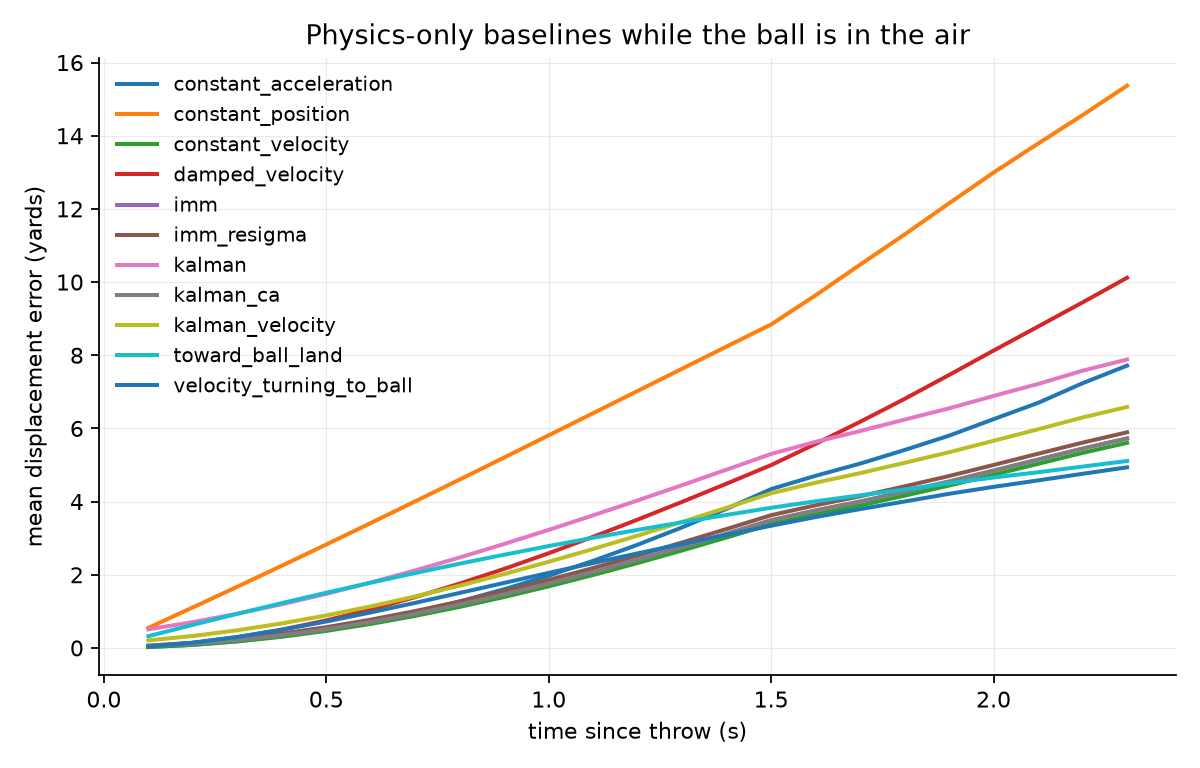
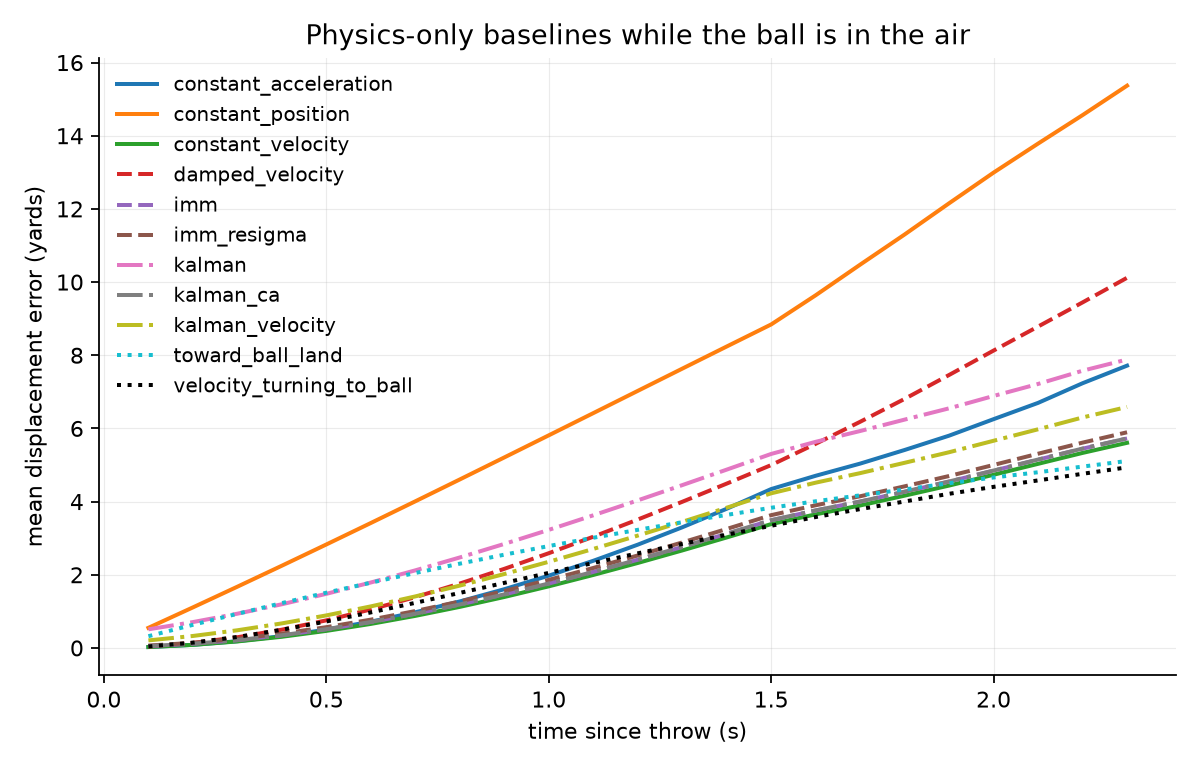
Fix error_curves.png colour collision; disclose/correct per-role claims
evaluate.py: extend plot_error_curves to an explicit 11-way (color,
linestyle) map (CURVE_STYLE) instead of relying on matplotlib's 10-color
default cycle, which silently repeated and rendered constant_acceleration
and velocity_turning_to_ball in identical blue. Regenerated
outputs/error_curves.png and removed the prior caption disclosure of that
collision now that it's fixed rather than documented.

PART1_DETAIL.md: disclose that the by-role table is week-1-only (same
scope as the results table above it), with the full-18-week comparison
as evidence of robustness: every value moves <0.3 yd and the ordering
is unchanged.

CONTEXT.md: correct a miscount in the role-inversion note --
constant_position inverts too, not just constant_acceleration and
damped_velocity -- marked as a dated correction rather than rewritten
silently.

diff --git a/evaluate.py b/evaluate.py
@@ -116,6 +116,30 @@ def summarise_by_role(errors: pd.DataFrame) -> pd.DataFrame:
     return table.loc[table.mean(axis=1).sort_values().index]
 
 
+# matplotlib's default cycle has 10 colors; this project runs 11 baselines
+# through plot_error_curves, so the 11th silently repeated the 1st (two
+# unrelated baselines rendered in identical blue) until this was caught.
+# Explicit (color, linestyle) per predictor -- 11 distinct colors, grouped
+# into 4 linestyles so no two series share both, the same redundancy the
+# Part 2 headline figure uses for colorblind/grayscale safety. Falls back
+# to matplotlib's own cycling for any predictor not listed here, so this
+# doesn't silently break if a baseline is added later -- it just loses the
+# guaranteed-distinct treatment until this map is extended.
+CURVE_STYLE = {
+    "constant_acceleration":    ("#1f77b4", "-"),
+    "constant_position":        ("#ff7f0e", "-"),
+    "constant_velocity":        ("#2ca02c", "-"),
+    "damped_velocity":          ("#d62728", "--"),
+    "imm":                      ("#9467bd", "--"),
+    "imm_resigma":              ("#8c564b", "--"),
+    "kalman":                   ("#e377c2", "-."),
+    "kalman_ca":                ("#7f7f7f", "-."),
+    "kalman_velocity":          ("#bcbd22", "-."),
+    "toward_ball_land":         ("#17becf", ":"),
+    "velocity_turning_to_ball": ("#000000", ":"),
+}
+
+
 def plot_error_curves(curves: pd.DataFrame, path):
     """The first real figure of the project."""
     import matplotlib.pyplot as plt
@@ -123,7 +147,9 @@ def plot_error_curves(curves: pd.DataFrame, path):
     fig, ax = plt.subplots(figsize=(7.5, 4.8))
     for name, grp in curves.groupby("predictor"):
         grp = grp[grp["coverage"] >= MIN_COVERAGE].sort_values("seconds")
-        ax.plot(grp["seconds"], grp["mean_error"], label=name, linewidth=1.8)
+        color, ls = CURVE_STYLE.get(name, (None, "-"))
+        ax.plot(grp["seconds"], grp["mean_error"], label=name, linewidth=1.8,
+                color=color, linestyle=ls)
 
     ax.set_xlabel("time since throw (s)")
     ax.set_ylabel("mean displacement error (yards)")

diff --git a/CONTEXT.md b/CONTEXT.md
@@ -220,7 +220,8 @@ Readings:
 - **The role split inverts the hypothesis this file used to have.**
   `Targeted Receiver` error is *lower* than `Defensive Coverage`, not
   higher, for every baseline except `constant_acceleration` and
-  `damped_velocity`. Giving every player the same known landing point
+  `damped_velocity` [corrected 2026-11-03: `constant_position` inverts as
+  well]. Giving every player the same known landing point
   turns out to be far more informative for the receiver actually running
   to it than for the defender reacting in real time — worth stating
   plainly in the README rather than assuming intent is harder to predict

diff --git a/README.md b/README.md
@@ -194,10 +194,7 @@ angular error ≈ measurement noise / baseline length
 ![Mean displacement error vs. time since the throw, for all 11 physics-only baselines, clean data.](outputs/error_curves.png)
 
 `constant_position` (orange) — no velocity at all — diverges fastest and
-worst; every baseline that uses velocity clusters well below it. (Two of
-the eleven baselines, `constant_acceleration` and
-`velocity_turning_to_ball`, share a color in matplotlib's 10-color
-default cycle; neither is the one this caption points to.)
+worst; every baseline that uses velocity clusters well below it.
 
 Four findings:
 

diff --git a/PART1_DETAIL.md b/PART1_DETAIL.md
@@ -221,6 +221,10 @@ By role, mean error (yards):
 | `damped_velocity` | 3.565 | 4.033 |
 | `constant_position` | 6.391 | 8.545 |
 
+*(These figures are week 1 only, matching the main results table above.
+Recomputed on the full 18 weeks, every value moves by less than 0.3 yd and
+the ordering is unchanged.)*
+
 Every baseline that uses the landing point does *better* on the targeted
 receiver than on the defender covering them — not worse. Giving every
 player the same known destination turns out to be far more informative
